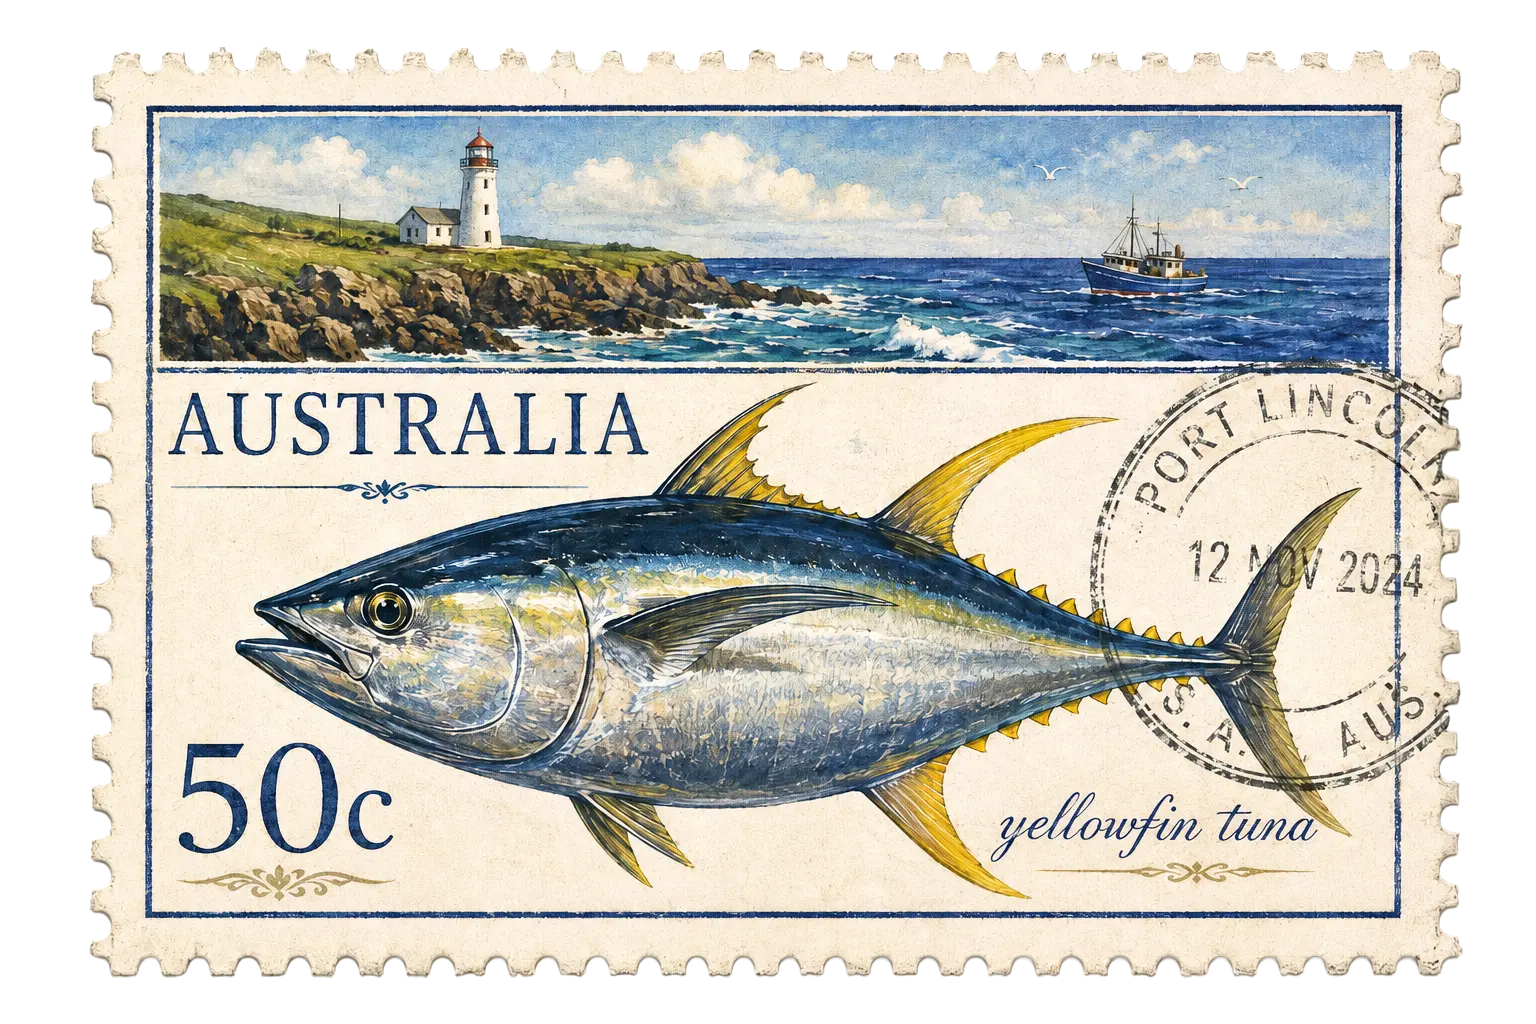
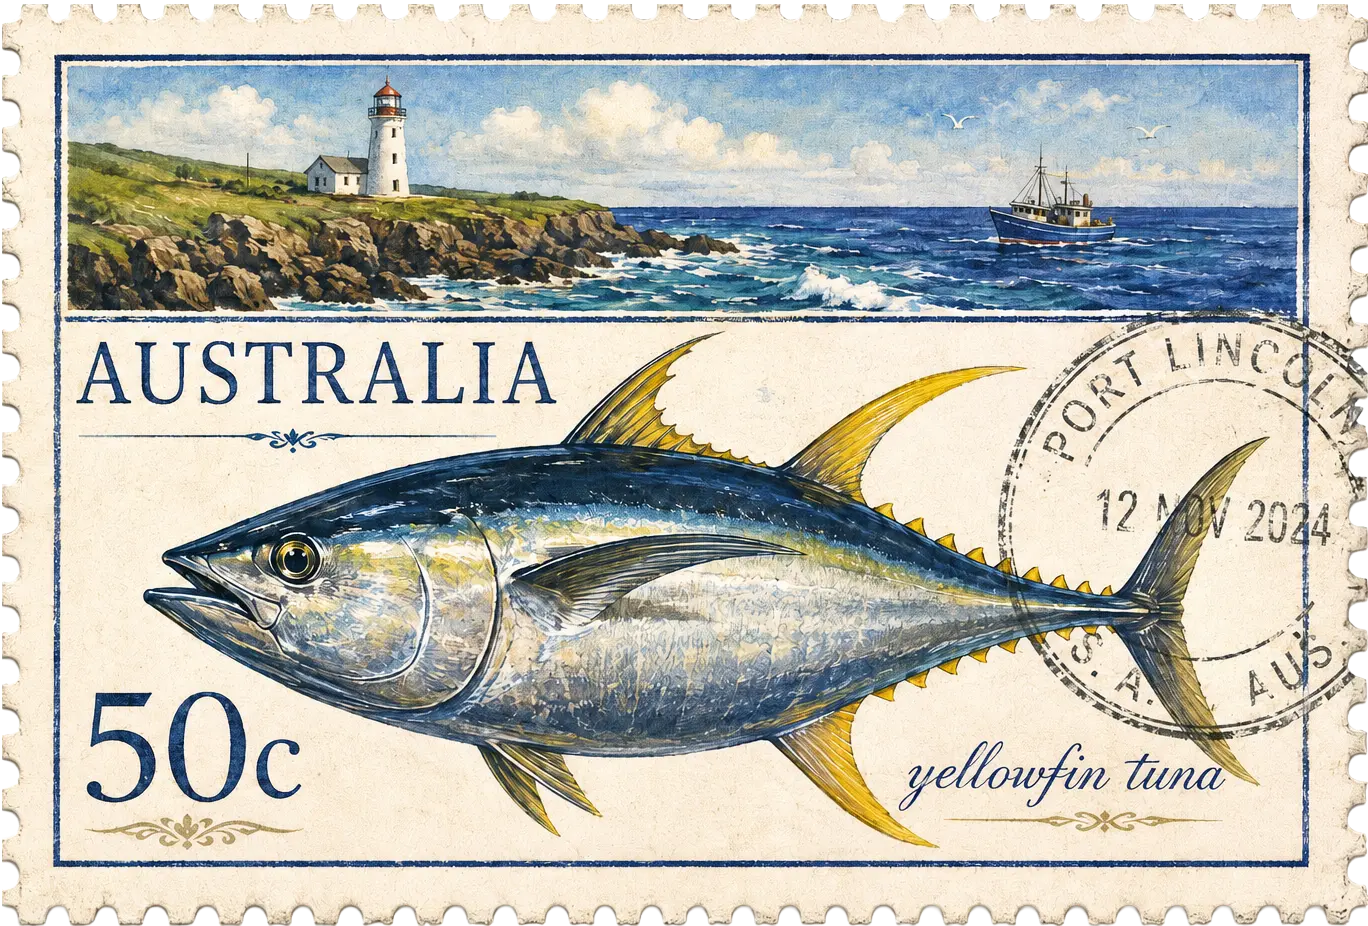
Adjust size

diff --git a/src/routes/+page.svelte b/src/routes/+page.svelte
@@ -101,7 +101,7 @@
 		<img
 			src="/stamp.webp"
 			alt=""
-			class="h-12 shrink-0 select-none pointer-events-none md:h-[70px]"
+			class="h-[50px] shrink-0 select-none pointer-events-none md:h-[60px]"
 			draggable="false"
 		/>
 	</div>